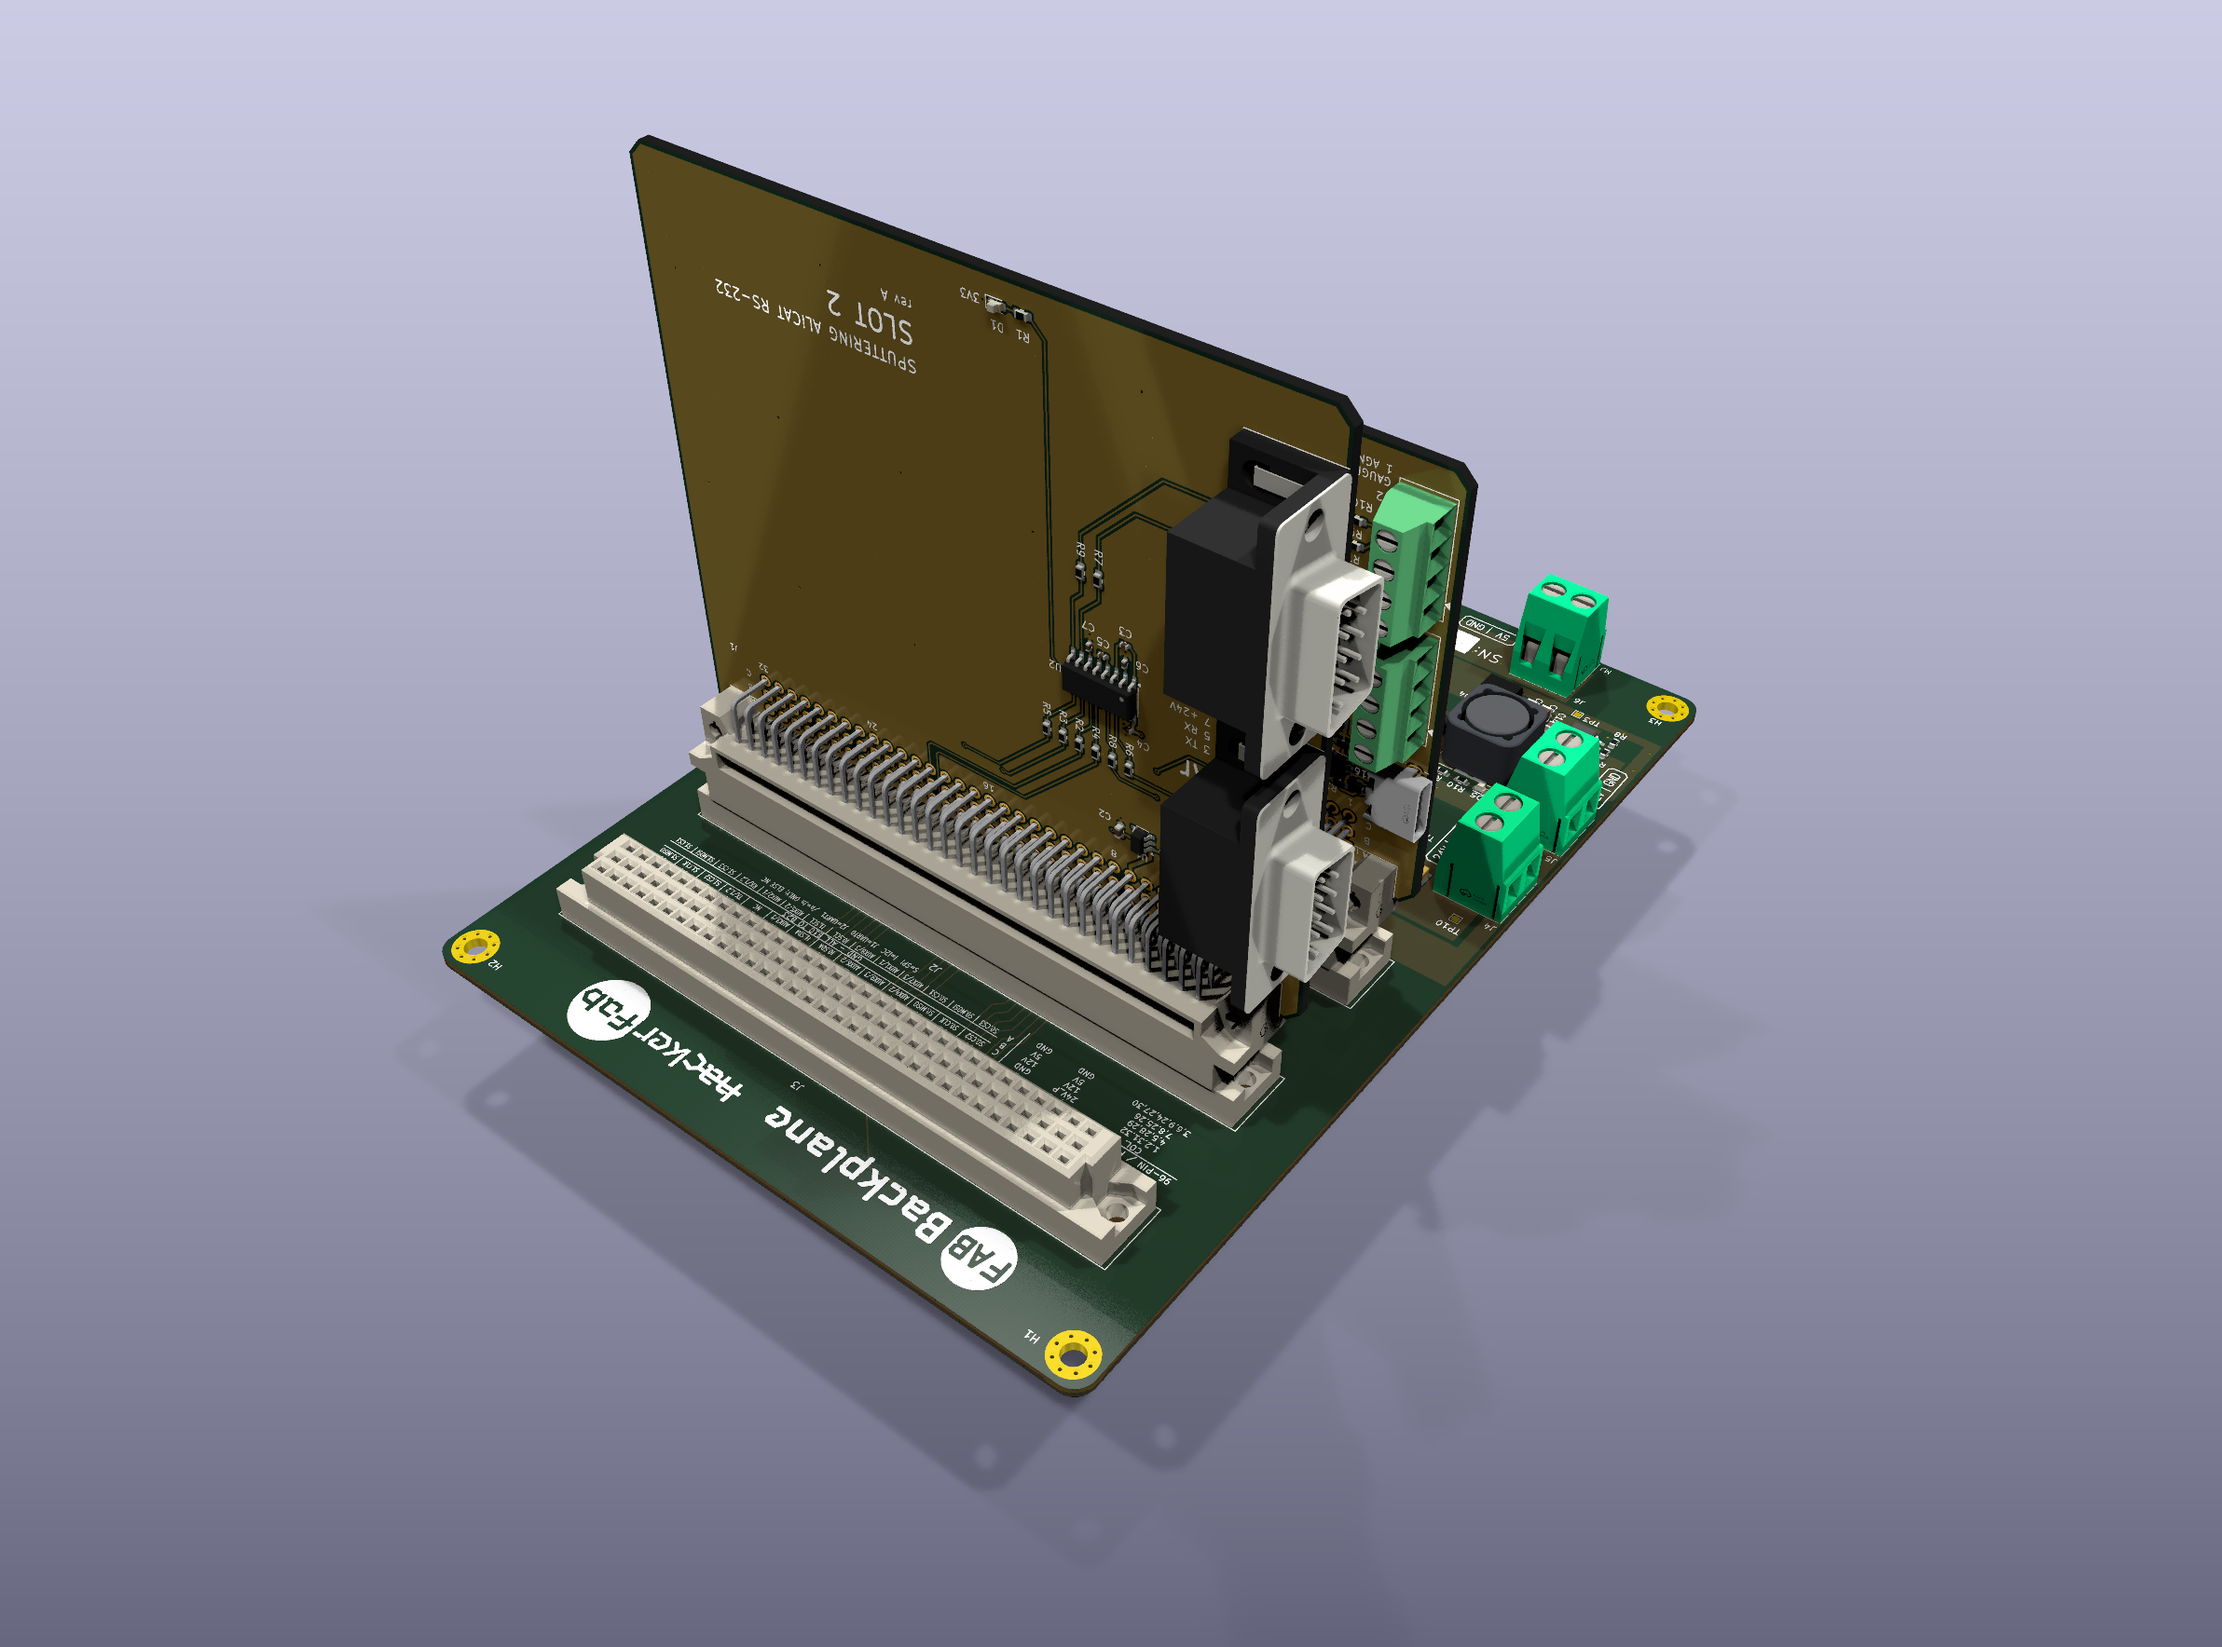
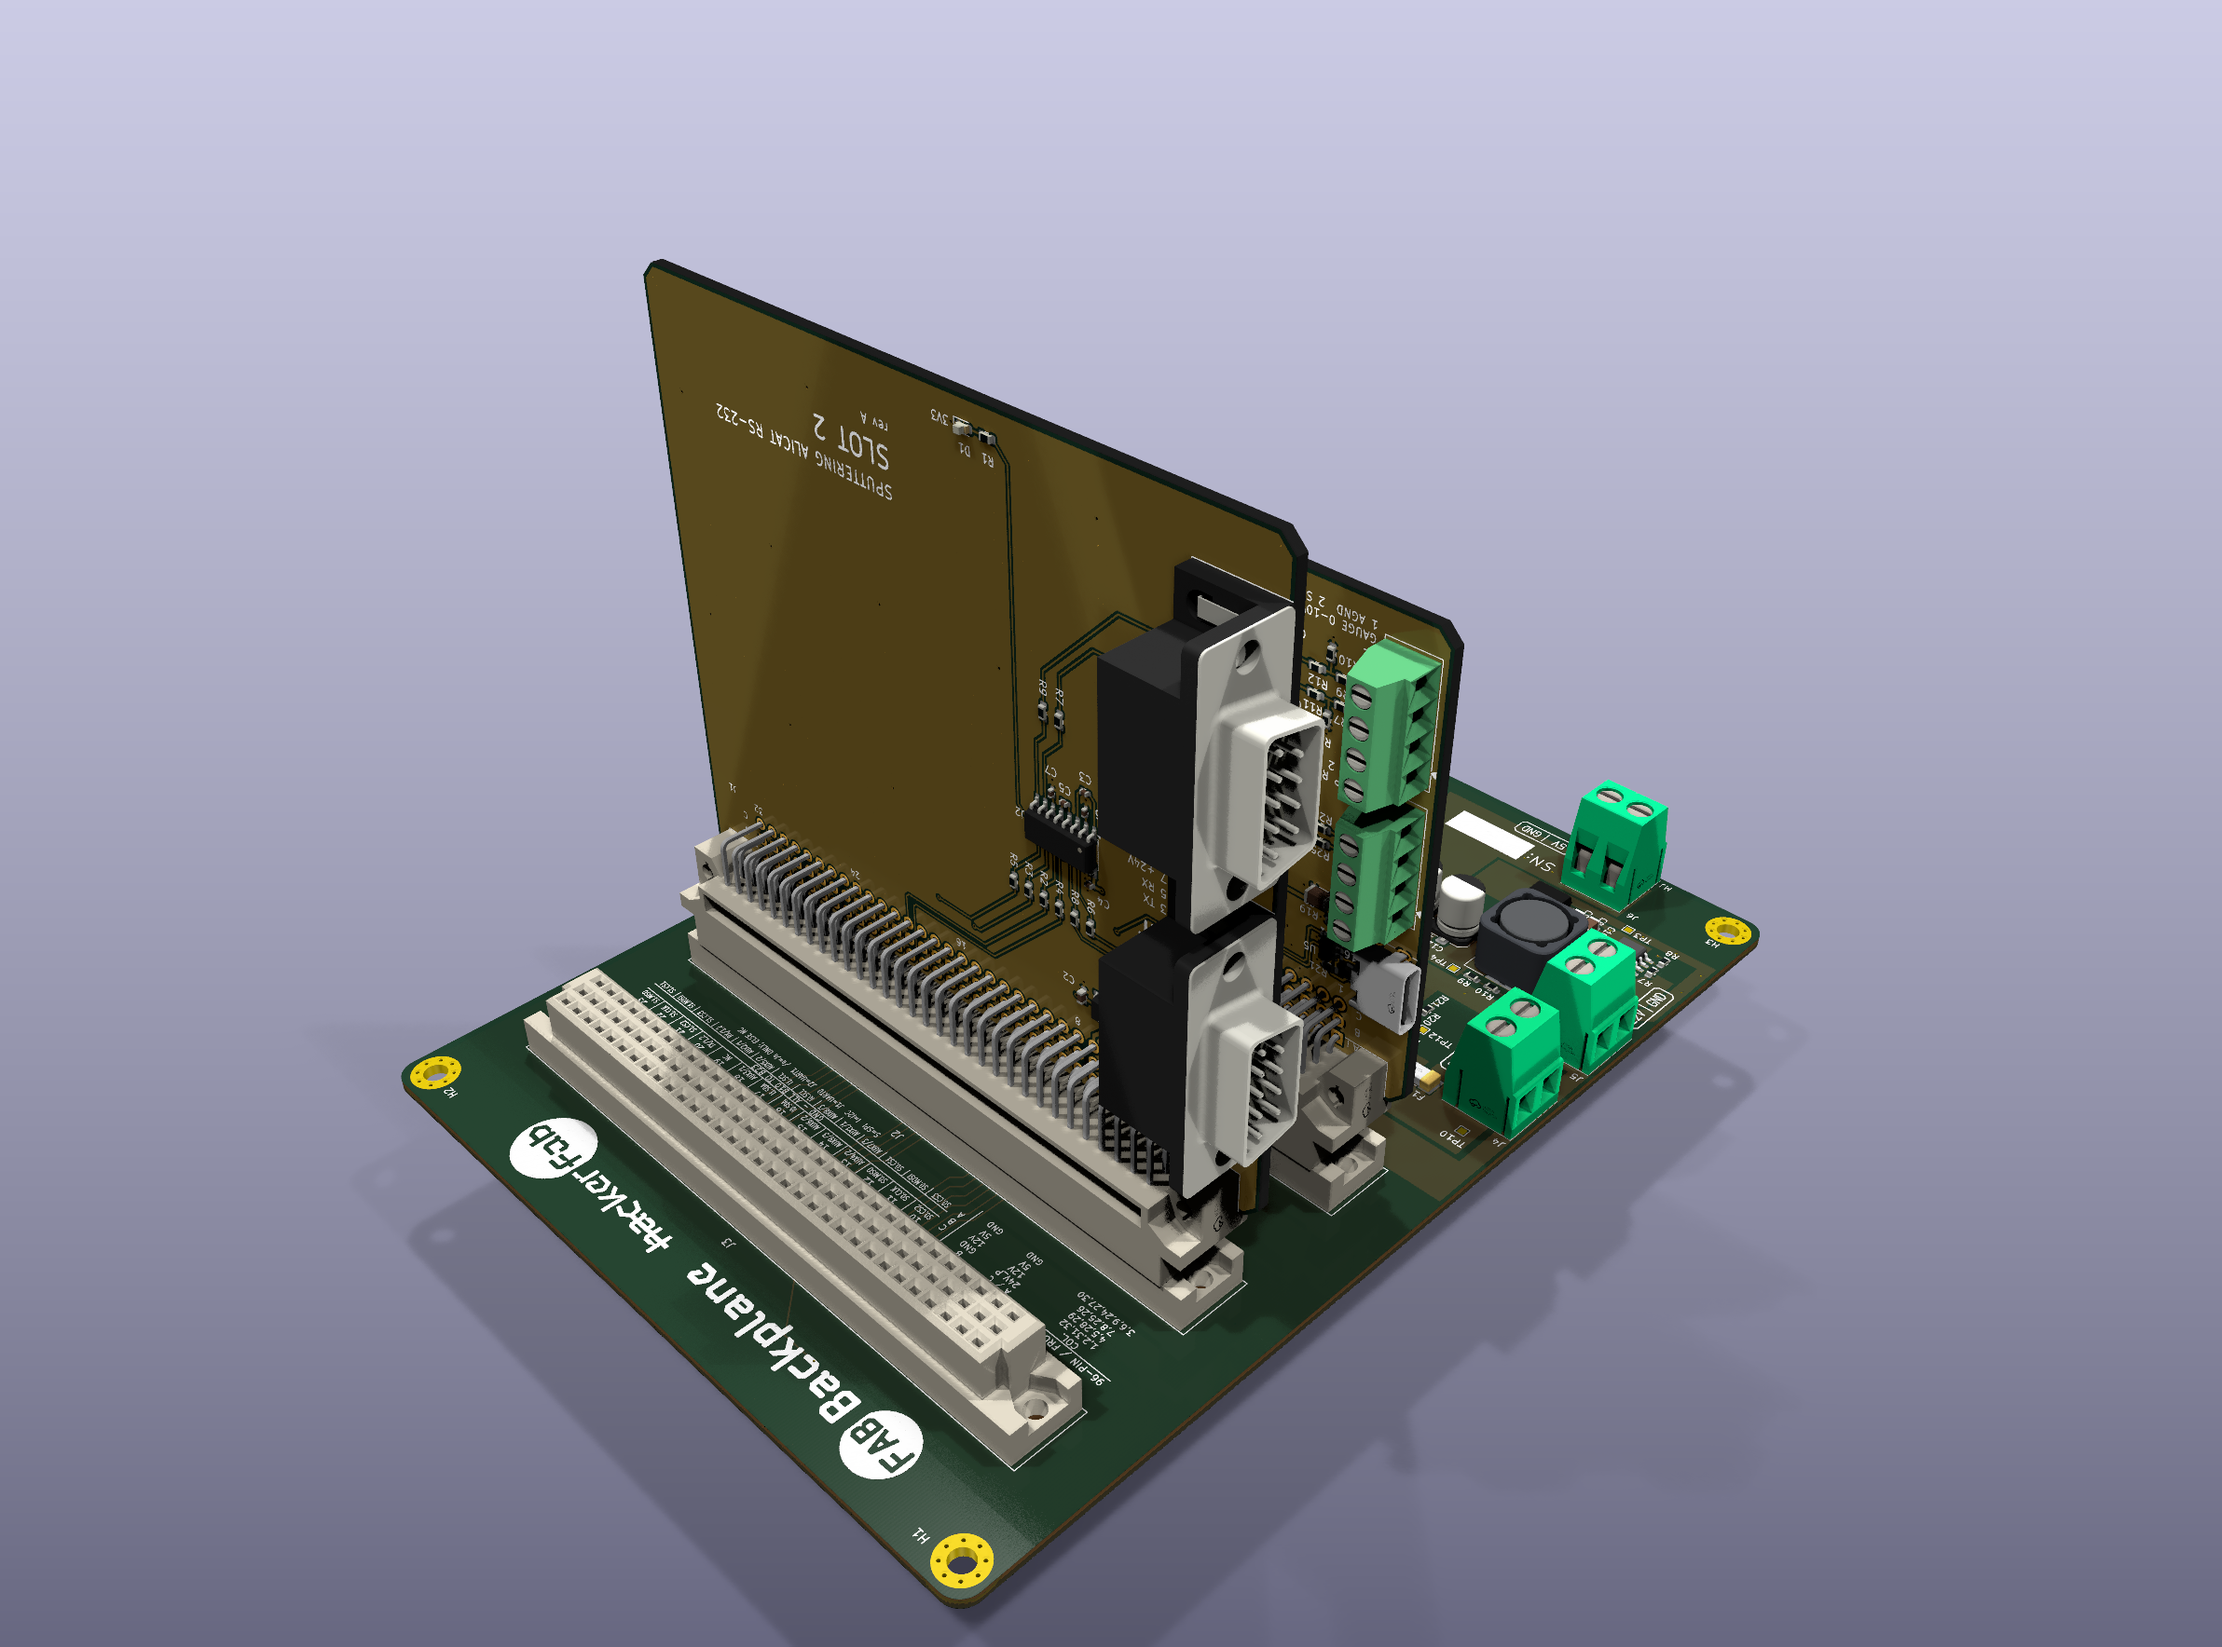
Refresh sputtering renders and validation for connector update

Changed region(s): [[0.1862, 0.0622, 0.807, 0.9955], [0.3414, 0.2489, 0.4035, 0.3111]]

diff --git a/daughterboards/sputtering/docs/validation.md b/daughterboards/sputtering/docs/validation.md
@@ -1,6 +1,14 @@
 # Sputtering cards: PR review and validation
 
-Reviewed November 14, 2026 using KiCad **10.0.6** on Windows. Source: [PR #15](https://github.com/jonahsaunders/fab-computer-hackerfab/pull/15), commit [`0e1bde4b7395913e4f0aeb449eee29cf7ff73e59`](https://github.com/jonahsaunders/fab-computer-hackerfab/commit/0e1bde4b7395913e4f0aeb449eee29cf7ff73e59). The integration adds navigation and review documentation; the submitted hardware and manufacturing exports are retained unchanged.
+Reviewed November 15, 2026 using KiCad **10.0.6** on Windows. Current source: [PR #16](https://github.com/jonahsaunders/fab-computer-hackerfab/pull/16), commit [`0c6d404d303cf7dc25ea720b2cbbe8fff10cb81f`](https://github.com/jonahsaunders/fab-computer-hackerfab/commit/0c6d404d303cf7dc25ea720b2cbbe8fff10cb81f). The submitted hardware, schematic PDFs and manufacturing exports are retained unchanged. The two standalone renders and both installed assembly views were regenerated from this revision using the repository's established view and lighting settings.
+
+## Connector update
+
+PR #16 replaces pump-card J2/J3 with Kangnex WJ124-3.81-04P-14-00A screw terminals (`C69809`) and Alicat J2/J3 with CONNFLY DS1037-09MNAKT74-0CC male DB9 connectors (`C75750`) for the lab's female-to-female cables. The supplied BOMs and placement files reflect these changes.
+
+Comparing exported schematic netlists with the PR #15 revision found identical electrical connectivity on all 72 nets of each card. The DIN96 plug and external connector pad numbers also retain their PCB net assignments. Actual cable wiring and mechanical fit still require verification. The screw-terminal render uses the supplied nominal Phoenix model; it is not an exact Kangnex mechanical model.
+
+The [initial PR #15 review](https://github.com/jonahsaunders/fab-computer-hackerfab/blob/b2cfac5ee008dcd296017fc3f7fbc75bfcf77d37/daughterboards/sputtering/docs/validation.md) recorded 22 pump-card warnings and 24 Alicat-card warnings. The table below records the current connector revision.
 
 ## Automated design checks
 
@@ -8,7 +16,7 @@ Reviewed November 14, 2026 using KiCad **10.0.6** on Windows. Source: [PR #15](h
 | --- | ---: | ---: |
 | ERC errors / warnings | 0 / 0 | 0 / 0 |
 | DRC errors | 0 | 0 |
-| DRC warnings | 22 | 24 |
+| DRC warnings | 9 | 24 |
 | Unconnected items | 0 | 0 |
 | Schematic/PCB parity findings | 0 | 0 |
 | BOM designators / CPL entries | 43 / 43 | 22 / 22 |
@@ -16,9 +24,9 @@ Reviewed November 14, 2026 using KiCad **10.0.6** on Windows. Source: [PR #15](h
 
 DRC was run with zone refill, schematic parity and all severities enabled. ERC was run with all severities enabled. Neither project lists ERC or DRC exclusions.
 
-The pump card's warnings are 10 footprint/library mismatches, 10 silkscreen-over-copper warnings and 2 silkscreen-to-edge clearance warnings. The Alicat card has 22 silkscreen-over-copper warnings and 2 silkscreen-to-edge clearance warnings. Warning counts may depend on the installed standard KiCad libraries.
+The pump card's warnings are 9 footprint/library mismatches. The Alicat card has 22 silkscreen-over-copper warnings and 2 silkscreen-to-edge clearance warnings. Warning counts may depend on the installed standard KiCad libraries.
 
-Pump-card footprint mismatches affect C4, C5, C6, C7, C9, J1, J3, J4, R18 and R20. Compare the embedded board footprints against their library definitions before updating footprints or releasing fabrication. These findings have been recorded, not suppressed or treated as resolved. Resolve or justify the silkscreen findings against the actual assembly and fabrication process.
+Pump-card footprint mismatches affect C4, C5, C6, C7, C9, J1, J4, R18 and R20. Compare the embedded board footprints against their library definitions before updating footprints or releasing fabrication. These findings have been recorded, not suppressed or treated as resolved. Resolve or justify the silkscreen findings against the actual assembly and fabrication process.
 
 BOM quantities and designators match the PCB footprint inventory and the CPL designator sets. Both Gerber ZIPs pass archive integrity checks and contain front/back copper, mask, paste, silkscreen, outline and drill outputs. This does not certify catalog part equivalence, placement rotations or Gerber-to-source geometry.
 
@@ -37,7 +45,7 @@ All 192 DIN96 contacts were checked for host-slot compatibility, including each 
 
 The ADC address selection is grounded (0x48). Both cards leave SPI0 and SPI1 unconnected. Slot-specific connections mean the pump card belongs in host J1 and the Alicat card in host J2. Firmware must configure these interfaces; this PR supplies no sputtering firmware or bench results.
 
-## Documentation findings addressed during integration
+## Initial integration notes (PR #15)
 
 - The shared ordering instructions previously told readers to choose four layers for every board, contradicting these two-layer designs. The instructions now use each board's listed layer count.
 - The shared guide's statement about zero findings on "both plug-in cards" referred to the earlier motion and encoder cards. Their validation is now explicitly separated from this sputtering review, including the warnings above.

diff --git a/docs/manufacturing/README.md b/docs/manufacturing/README.md
@@ -43,8 +43,8 @@ The CPL uses absolute coordinates in millimetres on the same origin as the Gerbe
 
 - Two layers, FR-4, 1.6 mm.
 - [Dedicated section](../../daughterboards/sputtering/README.md) with both projects, schematics, renders and assembly downloads.
-- Supplied exports were made with KiCad 10.0.6 and the Fabrication Toolkit plugin at [design revision `0e1bde4`](https://github.com/jonahsaunders/fab-computer-hackerfab/tree/0e1bde4b7395913e4f0aeb449eee29cf7ff73e59). CPL uses the Gerbers' origin; confirm connector center offsets and rotations in the assembly preview.
-- The [independent review](../../daughterboards/sputtering/docs/validation.md) found zero ERC errors or warnings, zero DRC errors, zero unconnected items and zero schematic-parity findings. It also recorded 22 pump-card and 24 Alicat-card DRC warnings. Review these before fabrication; catalog matching, physical fit and bench operation remain open.
+- The supplied exports accompany [connector revision `0c6d404`](https://github.com/jonahsaunders/fab-computer-hackerfab/tree/0c6d404d303cf7dc25ea720b2cbbe8fff10cb81f), with pump-card screw terminals and male Alicat DB9 connectors. CPL uses the Gerbers' origin; confirm connector center offsets and rotations in the assembly preview.
+- The [independent review](../../daughterboards/sputtering/docs/validation.md) found zero ERC errors or warnings, zero DRC errors, zero unconnected items and zero schematic-parity findings. It also recorded 9 pump-card and 24 Alicat-card DRC warnings. Review these before fabrication; catalog matching, physical fit and bench operation remain open.
 
 ## Source BOMs and order substitutions
 

diff --git a/daughterboards/sputtering/README.md b/daughterboards/sputtering/README.md
@@ -33,4 +33,4 @@ Slot names below refer to the host: use **J1 for pump + gauge + USB** and **J2 f
 
 ## Review status
 
-Reviewed at [PR #15](https://github.com/jonahsaunders/fab-computer-hackerfab/pull/15), submitted by [jacobro100](https://github.com/jacobro100). KiCad 10.0.6 reported no ERC errors or warnings and no DRC errors, unconnected items or schematic-parity findings. DRC reported **22 warnings on pump + gauge + USB** and **24 warnings on Alicat**. See the [review record](docs/validation.md) for categories, reproduction commands and remaining manufacturing and bench checks.
+The [PR #16 connector update](https://github.com/jonahsaunders/fab-computer-hackerfab/pull/16), submitted by [jacobro100](https://github.com/jacobro100), adds pump-card screw terminals and male Alicat DB9 connectors. KiCad 10.0.6 reported no ERC errors or warnings and no DRC errors, unconnected items or schematic-parity findings. DRC reported **9 warnings on pump + gauge + USB** and **24 warnings on Alicat**. See the [review record](docs/validation.md) for categories, reproduction commands and remaining manufacturing and bench checks.
